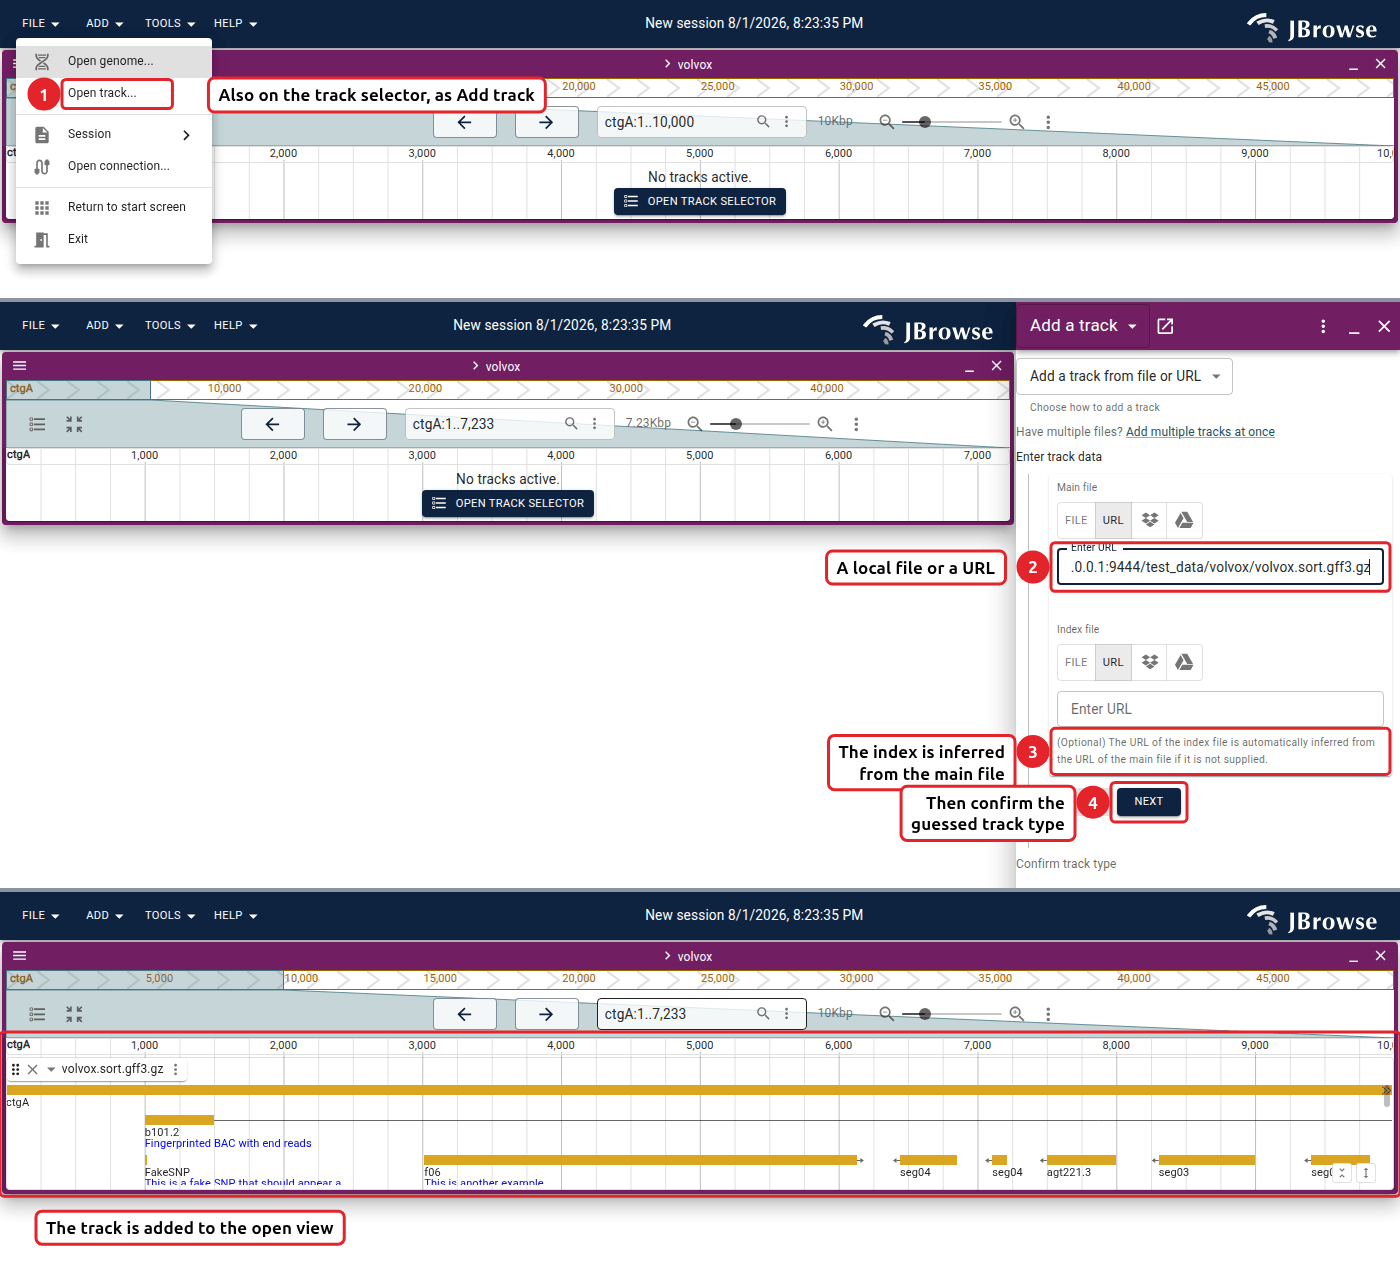
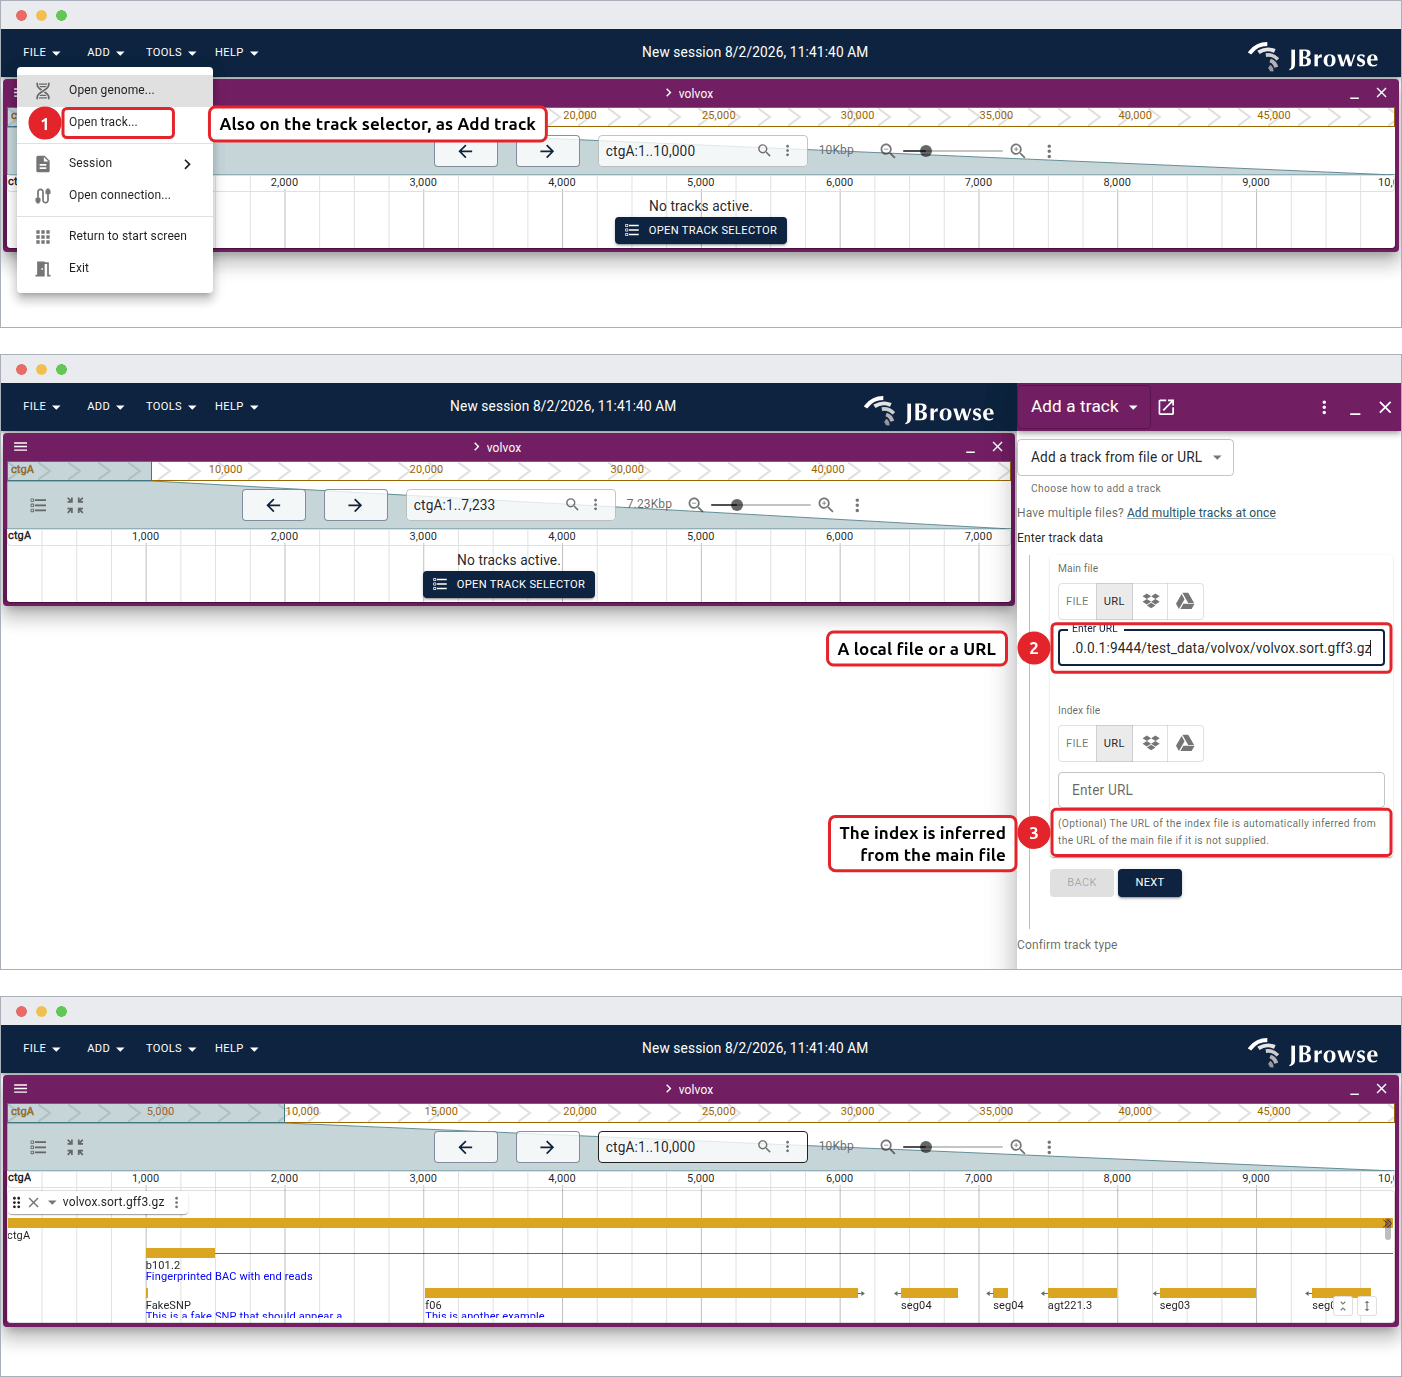
docs(desktop): draw each procedure frame as a window, and cut the obvious callouts
Selenium screenshots the page, so a frame is the app's viewport with no
decoration around it, and three of them stacked read as one long scroll of app
rather than three windows -- which is why they needed a rule between them to
separate at all. composeProcedure now draws a title bar and a hairline border
per frame and puts a transparent gap between them (transparent because the docs
page has a dark theme, where a baked-in white bar would be a white bar).

The add-track figure drops the badge on the form's Next button and the box
around the whole view on the result frame. Both narrated what the reader was
already looking at.

diff --git a/products/jbrowse-desktop/test/procedures.ts b/products/jbrowse-desktop/test/procedures.ts
@@ -206,25 +206,14 @@ export const PROCEDURES: Record<string, Procedure> = {
             labelSide: 'left',
             maxWidth: 190,
           }),
-          ...step({
-            n: 4,
-            anchor: { text: 'Next' },
-            label: 'Then confirm the guessed track type',
-            labelSide: 'left',
-            maxWidth: 190,
-          }),
         ],
       },
       {
+        // No callout. The frame is the result, and a box around the whole view
+        // labelled "the track is added to the view" tells a reader what they
+        // are already looking at -- as did a badge on the form's Next button.
         title: 'session with the new track',
-        annotations: step({
-          n: 5,
-          anchor: { view: 0 },
-          label: 'The track is added to the open view',
-          labelSide: 'below',
-          labelDx: 40,
-          labelDy: 14,
-        }),
+        annotations: [],
       },
     ],
   },
@@ -299,28 +288,73 @@ function trimFrame(file: string, keep = 20): void {
   }
 }
 
-// Stack the frames into one figure, separated by a rule so a reader sees three
-// screenshots rather than one tall one.
-const SEPARATOR = '#8b93a1'
-const SEPARATOR_PX = 4
+// Window decoration, drawn on rather than captured. Selenium screenshots the
+// page, so a frame is the app's viewport with nothing around it -- the title
+// bar belongs to the window manager and never appears. Stacked, bare rectangles
+// read as one long scroll of app, which is why the frames used to need a rule
+// between them to separate at all. A title bar per frame says "this is a
+// window" without a rule, and says it the same way on every machine's WM.
+const TITLEBAR_PX = 28
+const TITLEBAR_COLOR = '#e9ebef'
+const WINDOW_BORDER = '#a9b0ba'
+// the three-dot cluster, in the order every client-side decoration draws it
+const WINDOW_DOTS = ['#ec6a5e', '#f4bf4f', '#61c554']
+const DOT_RADIUS = 5
+const DOT_PITCH = 20
+const DOT_X = 20
 
+// Between frames, so the windows read as three pictures rather than a stack
+// welded together. Transparent rather than a page color: these figures render
+// on a docs page that has a light and a dark theme, and a baked-in white gap
+// would be a white bar down the middle of the dark one.
+const FRAME_GAP_PX = 26
+
+// A frame plus its simulated window chrome, as an ImageMagick parenthesized
+// group. The title bar is spliced above the capture and the dots are drawn into
+// it; the 1px border goes on last so it surrounds both.
+function windowFrame(file: string, gapAbove: boolean): string[] {
+  const dots = WINDOW_DOTS.flatMap((color, i) => {
+    const cx = DOT_X + i * DOT_PITCH
+    const cy = Math.round(TITLEBAR_PX / 2)
+    return [
+      '-fill',
+      color,
+      '-draw',
+      `circle ${cx},${cy} ${cx},${cy + DOT_RADIUS}`,
+    ]
+  })
+  return [
+    '(',
+    file,
+    '-background',
+    TITLEBAR_COLOR,
+    '-splice',
+    `0x${TITLEBAR_PX}`,
+    ...dots,
+    '-bordercolor',
+    WINDOW_BORDER,
+    '-border',
+    '1',
+    ...(gapAbove
+      ? ['-background', 'none', '-splice', `0x${FRAME_GAP_PX}`]
+      : []),
+    ')',
+  ]
+}
+
+// Stack the frames into one figure, each in its own window.
 export function composeProcedure(frames: string[], outPath: string): void {
   for (const frame of frames) {
     trimFrame(frame)
   }
-  const [first, ...rest] = frames
   execFileSync(IM, [
-    first!,
-    ...rest.flatMap(f => [
-      '(',
-      f,
-      '-background',
-      SEPARATOR,
-      '-splice',
-      `0x${SEPARATOR_PX}`,
-      ')',
-    ]),
+    ...frames.flatMap((f, i) => windowFrame(f, i > 0)),
+    '-background',
+    'none',
     '-append',
+    // splicing leaves the first frame's geometry as the result's virtual
+    // canvas, which every later `convert` on this file then crops to
+    '+repage',
     outPath,
   ])
 }
